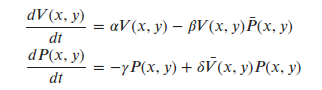
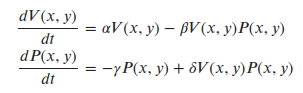
fix lotka_volterra

diff --git a/lotka_volterra.js b/lotka_volterra.js
@@ -57,6 +57,19 @@ window.onload = function() {
     }
     gpu.addFunction(get);
 
+    console.log("adding GPU function: average");
+    function average(cells, h, w, y, x) {
+        return (get(cells, h, w, y-1, x-1) +
+                get(cells, h, w, y-1, x) +
+                get(cells, h, w, y-1, x+1) +
+                get(cells, h, w, y, x-1) +
+                get(cells, h, w, y, x+1) +
+                get(cells, h, w, y+1, x-1) +
+                get(cells, h, w, y+1, x) +
+                get(cells, h, w, y+1, x+1)) / 8.0;
+    }
+    gpu.addFunction(average);
+
     console.log("adding GPU function: limit");
     function limit(v) {
         if (v < 0.0) {
@@ -80,6 +93,21 @@ window.onload = function() {
           .setPipeline(true);
     to_texture.immutable = true;
 
+    console.log("creating kernel: lv_diffusion");
+    const lv_diffusion = gpu.createKernel(
+        function(src, rate) {
+            const w = this.constants.width;
+            const h = this.constants.height;
+            const x = this.thread.x;
+            const y = this.thread.y;
+            return (1.0 - rate) * get(src, h, w, y, x) +
+                rate * average(src, h, w, y, x);
+        })
+          .setConstants({width: WIDTH, height: HEIGHT})
+          .setOutput([WIDTH, HEIGHT])
+          .setPipeline(true);
+    lv_diffusion.immutable = true;
+
     console.log("creating kernel: lv_reaction");
     const lv_reaction_prey = gpu.createKernel(
         function(prey, predator, dt, param_a, param_b) {
@@ -87,30 +115,11 @@ window.onload = function() {
             const h = this.constants.height;
             const x = this.thread.x;
             const y = this.thread.y;
-            /*
-            const sq2 = 1.41421356;
-            let a =
-                get(prey, h, w, y - 1, x) +
-                get(prey, h, w, y, x - 1) +
-                get(prey, h, w, y, x + 1) +
-                get(prey, h, w, y + 1, x) +
-                (get(prey, h, w, y - 1, x - 1) +
-                 get(prey, h, w, y - 1, x + 1) +
-                 get(prey, h, w, y + 1, x - 1) +
-                 get(prey, h, w, y + 1, x + 1)) / sq2;
-                 a /= (4.0 + 4.0 / sq2);
-            */
-            const a = (get(prey, h, w, y - 1, x) +
-                       get(prey, h, w, y, x - 1) +
-                       get(prey, h, w, y, x + 1) +
-                       get(prey, h, w, y + 1, x) +
-                       get(prey, h, w, y - 1, x - 1) +
-                       get(prey, h, w, y - 1, x + 1) +
-                       get(prey, h, w, y + 1, x - 1) +
-                       get(prey, h, w, y + 1, x + 1)) / 8.0;
-            return limit(get(prey, h, w, y, x)
+            const a = get(prey, h, w, y, x);
+            const b = get(predator, h, w, y, x);
+            return limit(a
                          + param_a * a * dt
-                         - param_b * a * get(predator, h, w, y, x) * dt);
+                         - param_b * a * b * dt);
         })
           .setConstants({width: WIDTH, height: HEIGHT})
           .setOutput([WIDTH, HEIGHT])
@@ -122,32 +131,11 @@ window.onload = function() {
             const h = this.constants.height;
             const x = this.thread.x;
             const y = this.thread.y;
-            const X = get(prey, h, w, y, x);
-            const Y = get(predator, h, w, y, x);
-            /*
-            const sq2 = 1.41421356;
-            let b =
-                get(predator, h, w, y - 1, x) +
-                get(predator, h, w, y, x - 1) +
-                get(predator, h, w, y, x + 1) +
-                get(predator, h, w, y + 1, x) +
-                (get(predator, h, w, y - 1, x - 1) +
-                 get(predator, h, w, y - 1, x + 1) +
-                 get(predator, h, w, y + 1, x - 1) +
-                 get(predator, h, w, y + 1, x + 1)) / sq2;
-            b /= (4.0 + 4.0 / sq2);
-            */
-            const b = (get(predator, h, w, y - 1, x) +
-                       get(predator, h, w, y, x - 1) +
-                       get(predator, h, w, y, x + 1) +
-                       get(predator, h, w, y + 1, x) +
-                       get(predator, h, w, y - 1, x - 1) +
-                       get(predator, h, w, y - 1, x + 1) +
-                       get(predator, h, w, y + 1, x - 1) +
-                       get(predator, h, w, y + 1, x + 1)) / 8.0;
+            const a = get(prey, h, w, y, x);
+            const b = get(predator, h, w, y, x);
             return limit(b
                          - param_c * b * dt
-                         + param_d * get(prey, h, w, y, x) * b * dt);
+                         + param_d * a * b * dt);
         })
           .setConstants({width: WIDTH, height: HEIGHT})
           .setOutput([WIDTH, HEIGHT])
@@ -207,8 +195,8 @@ window.onload = function() {
     // --------------------------------------------------
     console.log("start rendering...");
     function render_loop() {
-        let prey2 = to_texture(prey);
-        let predator2 = to_texture(predator);
+        let prey2 = lv_diffusion(prey, 0.1);
+        let predator2 = lv_diffusion(predator, 0.1);
         prey.delete(); predator.delete();
         prey = lv_reaction_prey(prey2, predator2, dt, param_a, param_b);
         predator = lv_reaction_predator(prey2, predator2, dt, param_c, param_d);

diff --git a/lotka_volterra_hexagonal.js b/lotka_volterra_hexagonal.js
@@ -57,6 +57,18 @@ window.onload = function() {
     }
     gpu.addFunction(get);
 
+    console.log("adding GPU function: average");
+    function average(cells, h, w, y, x) {
+        const dx = (Math.floor(y % 2) == 0) ? -1 : 0;
+        return (get(cells, h, w, y - 1, x + dx) +
+                get(cells, h, w, y - 1, x + dx + 1) +
+                get(cells, h, w, y, x - 1) +
+                get(cells, h, w, y, x + 1) +
+                get(cells, h, w, y + 1, x + dx) +
+                get(cells, h, w, y + 1, x + dx + 1)) / 6.0;
+    }
+    gpu.addFunction(average);
+
     console.log("adding GPU function: limit");
     function limit(v) {
         if (v < 0.0) {
@@ -80,6 +92,21 @@ window.onload = function() {
           .setPipeline(true);
     to_texture.immutable = true;
 
+    console.log("creating kernel: lv_diffusion");
+    const lv_diffusion = gpu.createKernel(
+        function(src, rate) {
+            const w = this.constants.width;
+            const h = this.constants.height;
+            const x = this.thread.x;
+            const y = this.thread.y;
+            return (1.0 - rate) * get(src, h, w, y, x) +
+                rate * average(src, h, w, y, x);
+        })
+          .setConstants({width: WIDTH, height: HEIGHT})
+          .setOutput([WIDTH, HEIGHT])
+          .setPipeline(true);
+    lv_diffusion.immutable = true;
+
     console.log("creating kernel: lv_reaction");
     const lv_reaction_prey = gpu.createKernel(
         function(prey, predator, dt, param_a, param_b) {
@@ -87,16 +114,11 @@ window.onload = function() {
             const h = this.constants.height;
             const x = this.thread.x;
             const y = this.thread.y;
-            const dx = (Math.floor(y % 2) == 0) ? -1 : 0;
-            const a = (get(prey, h, w, y - 1, x + dx) +
-                       get(prey, h, w, y - 1, x + dx + 1) +
-                       get(prey, h, w, y, x - 1) +
-                       get(prey, h, w, y, x + 1) +
-                       get(prey, h, w, y + 1, x + dx) +
-                       get(prey, h, w, y + 1, x + dx + 1)) / 6.0;
-            return limit(get(prey, h, w, y, x)
+            const a = get(prey, h, w, y, x);
+            const b = get(predator, h, w, y, x);
+            return limit(a
                          + param_a * a * dt
-                         - param_b * a * get(predator, h, w, y, x) * dt);
+                         - param_b * a * b * dt);
         })
           .setConstants({width: WIDTH, height: HEIGHT})
           .setOutput([WIDTH, HEIGHT])
@@ -108,18 +130,11 @@ window.onload = function() {
             const h = this.constants.height;
             const x = this.thread.x;
             const y = this.thread.y;
-            const X = get(prey, h, w, y, x);
-            const Y = get(predator, h, w, y, x);
-            const dx = (Math.floor(y % 2) == 0) ? -1 : 0;
-            const b = (get(predator, h, w, y - 1, x + dx) +
-                       get(predator, h, w, y - 1, x + dx + 1) +
-                       get(predator, h, w, y, x - 1) +
-                       get(predator, h, w, y, x + 1) +
-                       get(predator, h, w, y + 1, x + dx) +
-                       get(predator, h, w, y + 1, x + dx + 1)) / 6.0;
+            const a = get(prey, h, w, y, x);
+            const b = get(predator, h, w, y, x);
             return limit(b
                          - param_c * b * dt
-                         + param_d * get(prey, h, w, y, x) * b * dt);
+                         + param_d * a * b * dt);
         })
           .setConstants({width: WIDTH, height: HEIGHT})
           .setOutput([WIDTH, HEIGHT])
@@ -179,8 +194,8 @@ window.onload = function() {
     // --------------------------------------------------
     console.log("start rendering...");
     function render_loop() {
-        let prey2 = to_texture(prey);
-        let predator2 = to_texture(predator);
+        let prey2 = lv_diffusion(prey, 0.1);
+        let predator2 = lv_diffusion(predator, 0.1);
         prey.delete(); predator.delete();
         prey = lv_reaction_prey(prey2, predator2, dt, param_a, param_b);
         predator = lv_reaction_predator(prey2, predator2, dt, param_c, param_d);

diff --git a/lotka_volterra_triangle.js b/lotka_volterra_triangle.js
@@ -57,6 +57,15 @@ window.onload = function() {
     }
     gpu.addFunction(get);
 
+    console.log("adding GPU function: average");
+    function average(cells, h, w, y, x) {
+        const dy = (Math.floor((x+y) % 2) == 0) ? 1 : -1;
+        return (get(cells, h, w, y + dy, x) +
+                get(cells, h, w, y, x - 1) +
+                get(cells, h, w, y, x + 1)) / 3.0;
+    }
+    gpu.addFunction(average);
+
     console.log("adding GPU function: limit");
     function limit(v) {
         if (v < 0.0) {
@@ -80,6 +89,21 @@ window.onload = function() {
           .setPipeline(true);
     to_texture.immutable = true;
 
+    console.log("creating kernel: lv_diffusion");
+    const lv_diffusion = gpu.createKernel(
+        function(src, rate) {
+            const w = this.constants.width;
+            const h = this.constants.height;
+            const x = this.thread.x;
+            const y = this.thread.y;
+            return (1.0 - rate) * get(src, h, w, y, x) +
+                rate * average(src, h, w, y, x);
+        })
+          .setConstants({width: WIDTH, height: HEIGHT})
+          .setOutput([WIDTH, HEIGHT])
+          .setPipeline(true);
+    lv_diffusion.immutable = true;
+
     console.log("creating kernel: lv_reaction");
     const lv_reaction_prey = gpu.createKernel(
         function(prey, predator, dt, param_a, param_b) {
@@ -87,13 +111,11 @@ window.onload = function() {
             const h = this.constants.height;
             const x = this.thread.x;
             const y = this.thread.y;
-            const dy = (Math.floor((x+y) % 2) == 0) ? 1 : -1;
-            const a = (get(prey, h, w, y + dy, x) +
-                       get(prey, h, w, y, x - 1) +
-                       get(prey, h, w, y, x + 1)) / 3.0;
-            return limit(get(prey, h, w, y, x)
+            const a = get(prey, h, w, y, x);
+            const b = get(predator, h, w, y, x);
+            return limit(a
                          + param_a * a * dt
-                         - param_b * a * get(predator, h, w, y, x) * dt);
+                         - param_b * a * b * dt);
         })
           .setConstants({width: WIDTH, height: HEIGHT})
           .setOutput([WIDTH, HEIGHT])
@@ -105,15 +127,11 @@ window.onload = function() {
             const h = this.constants.height;
             const x = this.thread.x;
             const y = this.thread.y;
-            const X = get(prey, h, w, y, x);
-            const Y = get(predator, h, w, y, x);
-            const dy = (Math.floor((x+y) % 2) == 0) ? 1 : -1;
-            const b = (get(predator, h, w, y + dy, x) +
-                       get(predator, h, w, y, x - 1) +
-                       get(predator, h, w, y, x + 1)) / 3.0;
+            const a = get(prey, h, w, y, x);
+            const b = get(predator, h, w, y, x);
             return limit(b
                          - param_c * b * dt
-                         + param_d * get(prey, h, w, y, x) * b * dt);
+                         + param_d * a * b * dt);
         })
           .setConstants({width: WIDTH, height: HEIGHT})
           .setOutput([WIDTH, HEIGHT])
@@ -173,8 +191,8 @@ window.onload = function() {
     // --------------------------------------------------
     console.log("start rendering...");
     function render_loop() {
-        let prey2 = to_texture(prey);
-        let predator2 = to_texture(predator);
+        let prey2 = lv_diffusion(prey, 0.1);
+        let predator2 = lv_diffusion(predator, 0.1);
         prey.delete(); predator.delete();
         prey = lv_reaction_prey(prey2, predator2, dt, param_a, param_b);
         predator = lv_reaction_predator(prey2, predator2, dt, param_c, param_d);

diff --git a/lotka_volterra_neumann.js b/lotka_volterra_neumann.js
@@ -57,6 +57,15 @@ window.onload = function() {
     }
     gpu.addFunction(get);
 
+    console.log("adding GPU function: average");
+    function average(cells, h, w, y, x) {
+        return (get(cells, h, w, y-1, x) +
+                get(cells, h, w, y+1, x) +
+                get(cells, h, w, y, x+1) +
+                get(cells, h, w, y, x-1)) / 4.0;
+    }
+    gpu.addFunction(average);
+
     console.log("adding GPU function: limit");
     function limit(v) {
         if (v < 0.0) {
@@ -80,6 +89,21 @@ window.onload = function() {
           .setPipeline(true);
     to_texture.immutable = true;
 
+    console.log("creating kernel: lv_diffusion");
+    const lv_diffusion = gpu.createKernel(
+        function(src, rate) {
+            const w = this.constants.width;
+            const h = this.constants.height;
+            const x = this.thread.x;
+            const y = this.thread.y;
+            return (1.0 - rate) * get(src, h, w, y, x) +
+                rate * average(src, h, w, y, x);
+        })
+          .setConstants({width: WIDTH, height: HEIGHT})
+          .setOutput([WIDTH, HEIGHT])
+          .setPipeline(true);
+    lv_diffusion.immutable = true;
+
     console.log("creating kernel: lv_reaction");
     const lv_reaction_prey = gpu.createKernel(
         function(prey, predator, dt, param_a, param_b) {
@@ -87,13 +111,11 @@ window.onload = function() {
             const h = this.constants.height;
             const x = this.thread.x;
             const y = this.thread.y;
-            const a = (get(prey, h, w, y - 1, x) +
-                       get(prey, h, w, y, x - 1) +
-                       get(prey, h, w, y, x + 1) +
-                       get(prey, h, w, y + 1, x)) / 4.0;
-            return limit(get(prey, h, w, y, x)
+            const a = get(prey, h, w, y, x);
+            const b = get(predator, h, w, y, x);
+            return limit(a
                          + param_a * a * dt
-                         - param_b * a * get(predator, h, w, y, x) * dt);
+                         - param_b * a * b * dt);
         })
           .setConstants({width: WIDTH, height: HEIGHT})
           .setOutput([WIDTH, HEIGHT])
@@ -105,16 +127,11 @@ window.onload = function() {
             const h = this.constants.height;
             const x = this.thread.x;
             const y = this.thread.y;
-            const X = get(prey, h, w, y, x);
-            const Y = get(predator, h, w, y, x);
-            const sq2 = 1.41421356;
-            const b = (get(predator, h, w, y - 1, x) +
-                       get(predator, h, w, y, x - 1) +
-                       get(predator, h, w, y, x + 1) +
-                       get(predator, h, w, y + 1, x)) / 4.0;
+            const a = get(prey, h, w, y, x);
+            const b = get(predator, h, w, y, x);
             return limit(b
                          - param_c * b * dt
-                         + param_d * get(prey, h, w, y, x) * b * dt);
+                         + param_d * a * b * dt);
         })
           .setConstants({width: WIDTH, height: HEIGHT})
           .setOutput([WIDTH, HEIGHT])
@@ -174,8 +191,8 @@ window.onload = function() {
     // --------------------------------------------------
     console.log("start rendering...");
     function render_loop() {
-        let prey2 = to_texture(prey);
-        let predator2 = to_texture(predator);
+        let prey2 = lv_diffusion(prey, 0.1);
+        let predator2 = lv_diffusion(predator, 0.1);
         prey.delete(); predator.delete();
         prey = lv_reaction_prey(prey2, predator2, dt, param_a, param_b);
         predator = lv_reaction_predator(prey2, predator2, dt, param_c, param_d);
